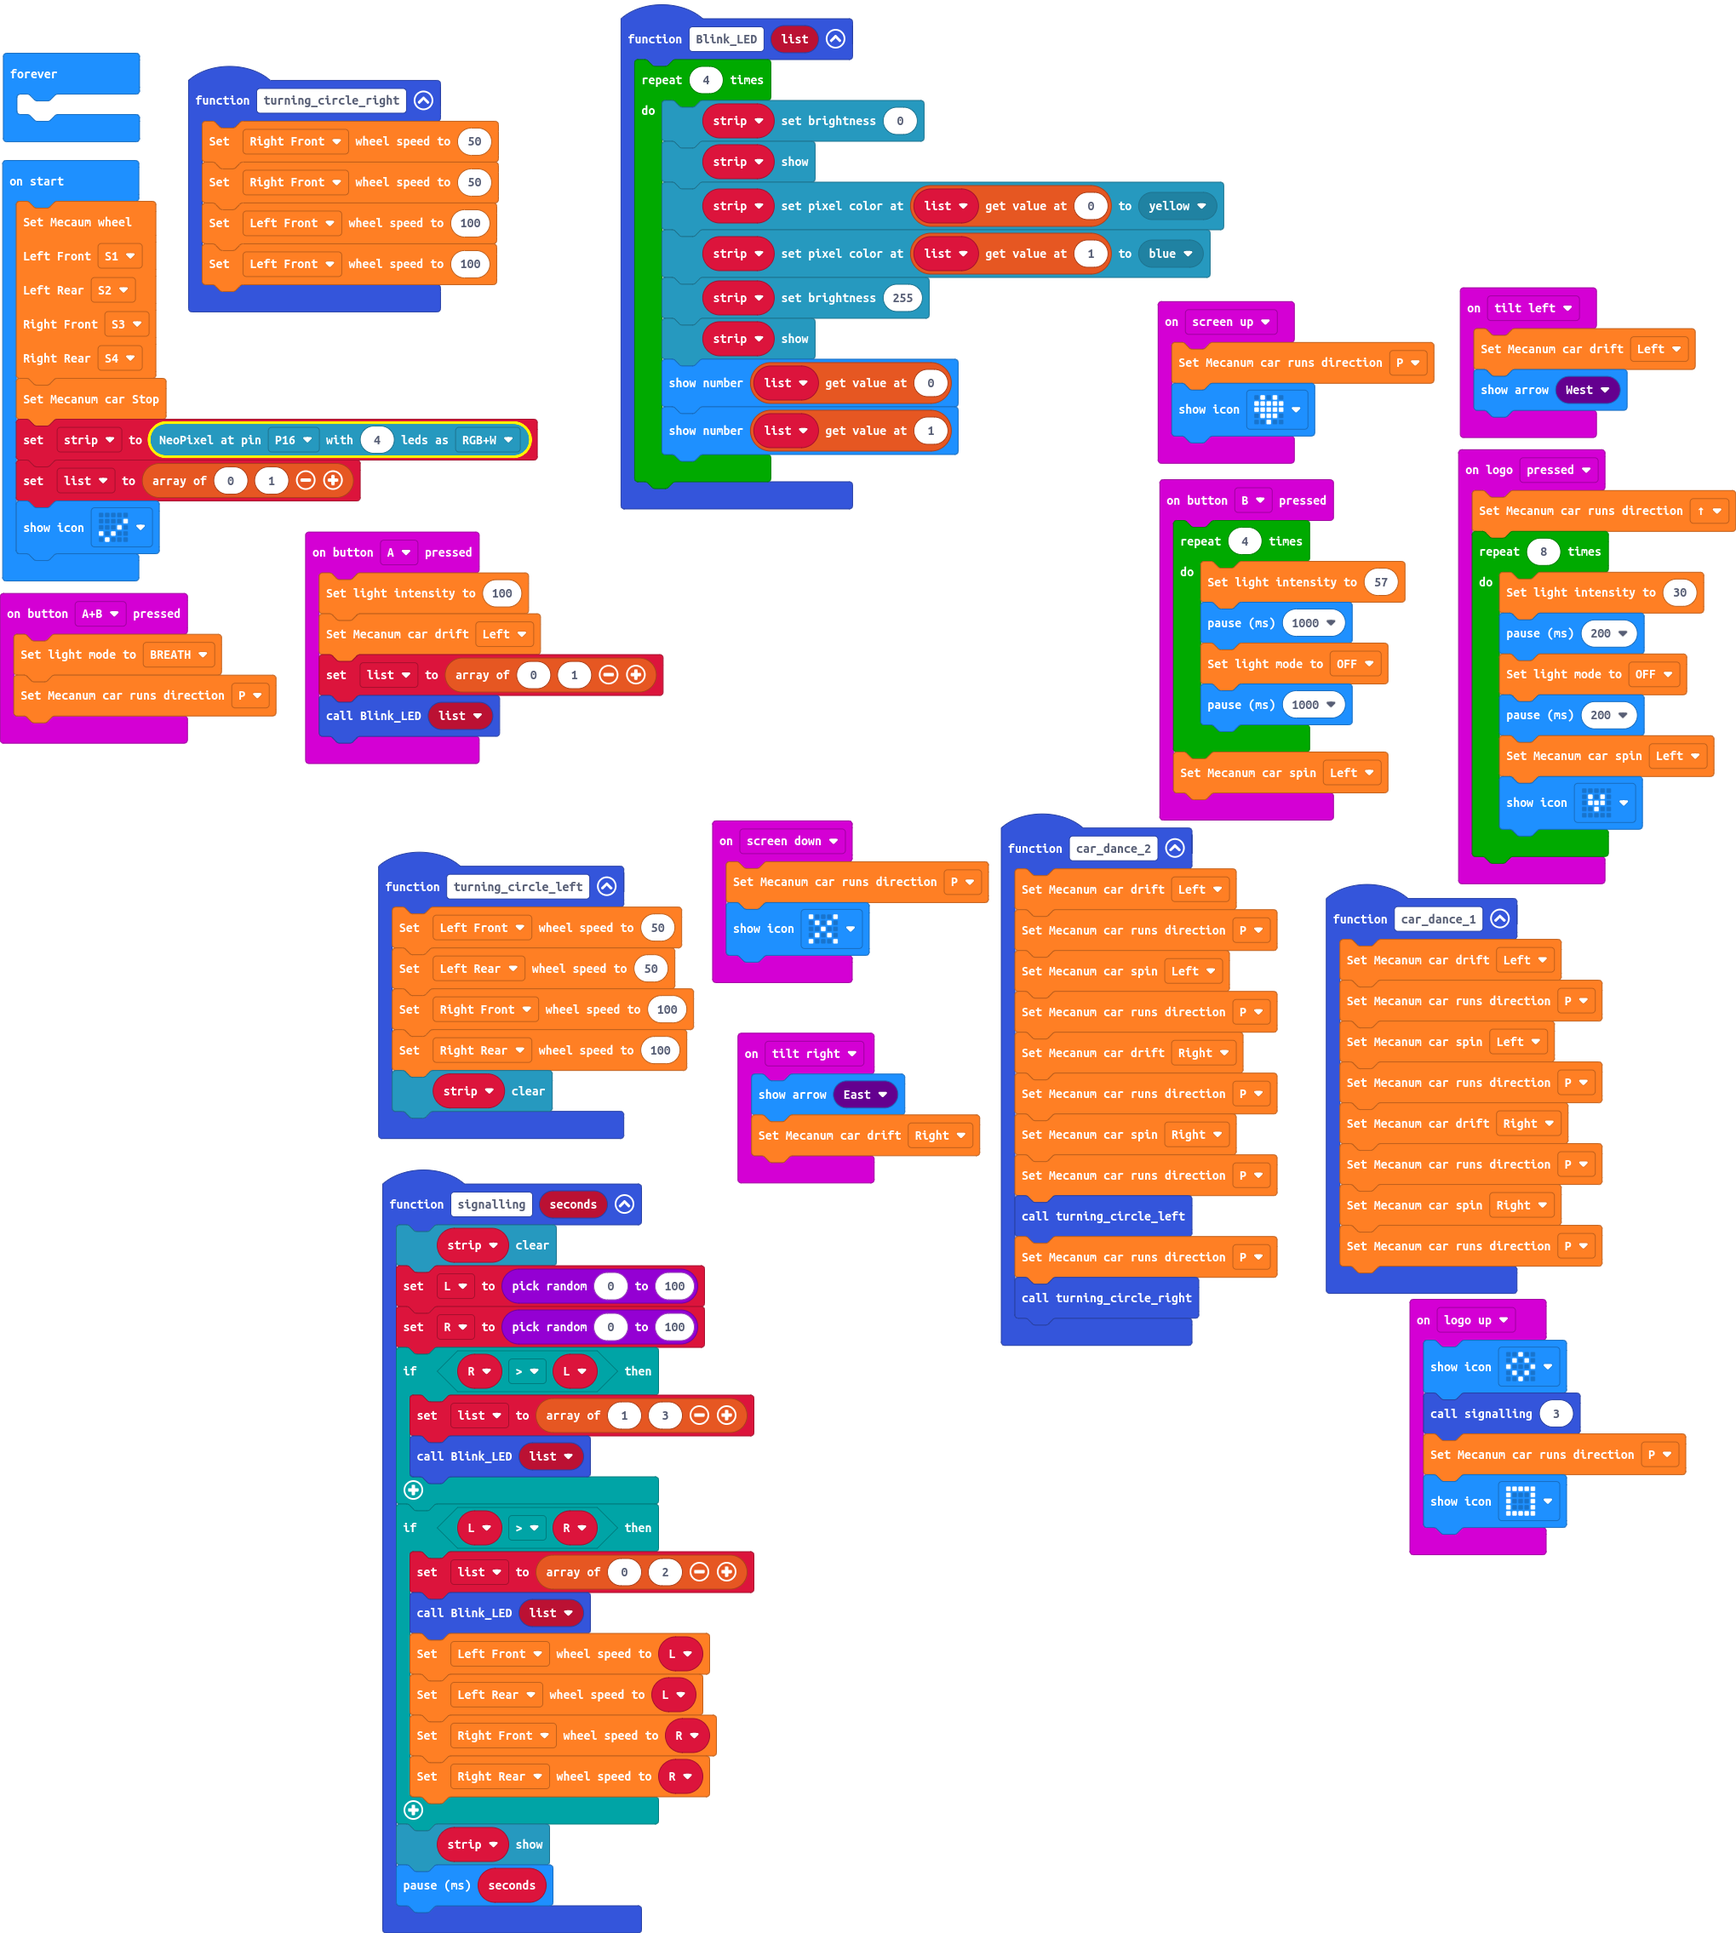
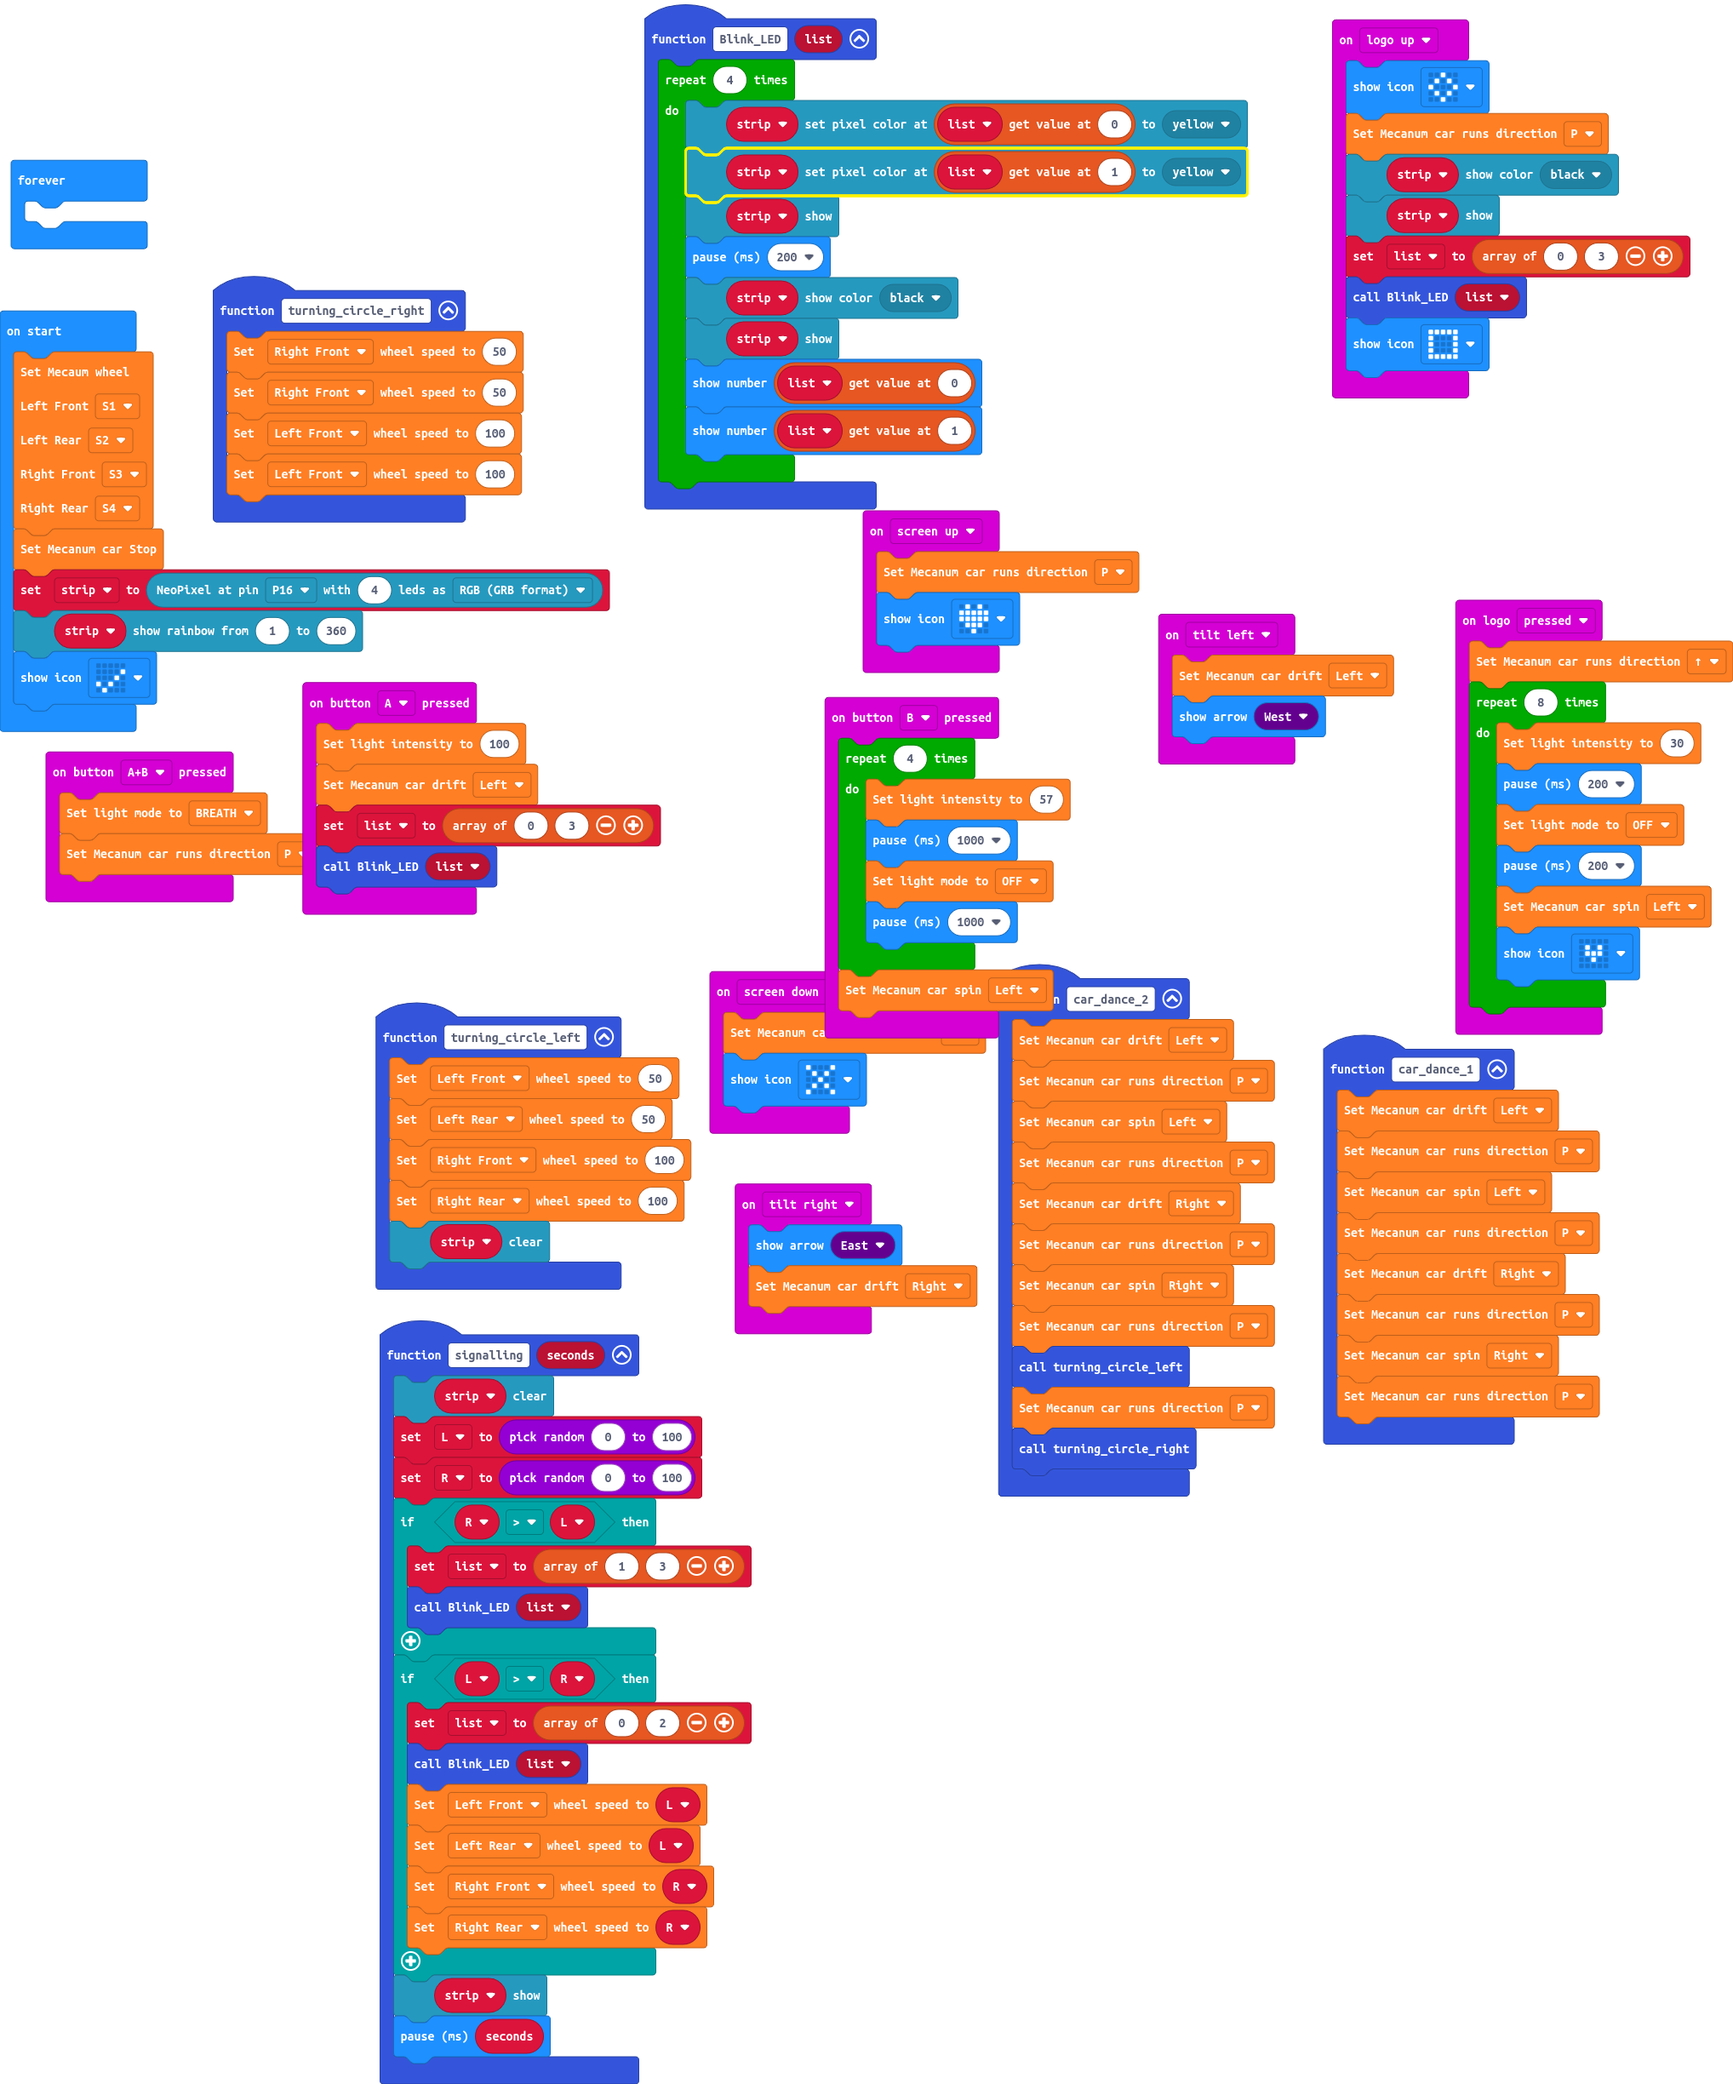
Update main.blocks, main.ts

diff --git a/main.ts b/main.ts
@@ -1,10 +1,10 @@
 function Blink_LED (list: number[]) {
     for (let index = 0; index < 4; index++) {
-        strip.setBrightness(0)
-        strip.show()
         strip.setPixelColor(list[0], neopixel.colors(NeoPixelColors.Yellow))
-        strip.setPixelColor(list[1], neopixel.colors(NeoPixelColors.Blue))
-        strip.setBrightness(255)
+        strip.setPixelColor(list[1], neopixel.colors(NeoPixelColors.Yellow))
+        strip.show()
+        basic.pause(200)
+        strip.showColor(neopixel.colors(NeoPixelColors.Black))
         strip.show()
         basic.showNumber(list[0])
         basic.showNumber(list[1])
@@ -19,13 +19,16 @@ function turning_circle_right () {
 input.onButtonPressed(Button.A, function () {
     wuKong.lightIntensity(100)
     wuKong.mecanumDrift(wuKong.TurnList.Left)
-    list = [0, 1]
+    list = [0, 3]
     Blink_LED(list)
 })
 input.onGesture(Gesture.LogoUp, function () {
     basic.showIcon(IconNames.Diamond)
-    signalling(3)
     wuKong.mecanumRun(wuKong.RunList.stop)
+    strip.showColor(neopixel.colors(NeoPixelColors.Black))
+    strip.show()
+    list = [0, 3]
+    Blink_LED(list)
     basic.showIcon(IconNames.Square)
 })
 input.onGesture(Gesture.TiltLeft, function () {
@@ -128,8 +131,8 @@ wuKong.ServoList.S3,
 wuKong.ServoList.S4
 )
 wuKong.mecanumStop()
-strip = neopixel.create(DigitalPin.P16, 4, NeoPixelMode.RGBW)
-list = [0, 1]
+strip = neopixel.create(DigitalPin.P16, 4, NeoPixelMode.RGB)
+strip.showRainbow(1, 360)
 basic.showIcon(IconNames.Yes)
 basic.forever(function () {
 	
